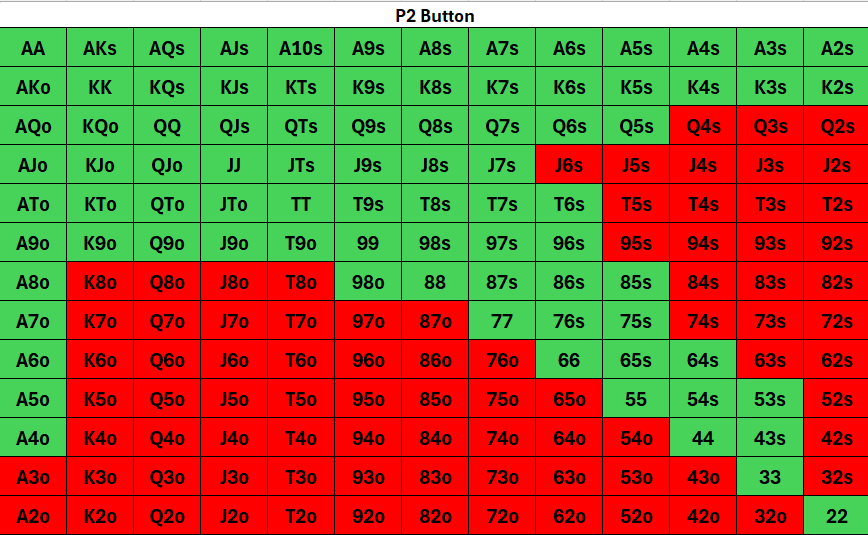
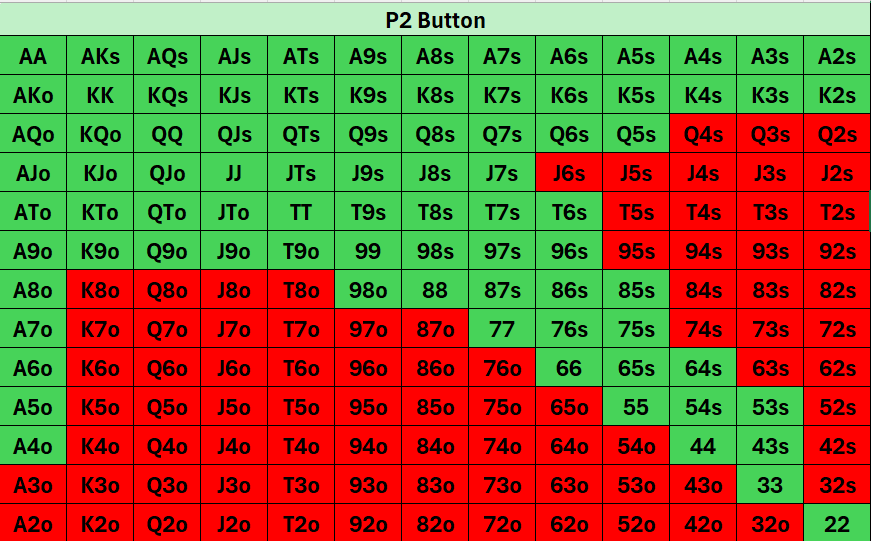
Added the arrays for hands
Added arrays for random hand generator and the arrays for the correct answers which should match the random hand for play to be clicked. Also changed the chart images because I make a mistake with AT (I called it A10)

diff --git a/train.js b/train.js
@@ -1,5 +1,95 @@
 // "Train" page JavaScript //
 
+const allHands = [
+"AA","AKs","AQs","AJs","ATs","A9s","A8s","A7s","A6s","A5s","A4s","A3s","A2s",
+"AKo","KK","KQs","KJs","KTs","K9s","K8s","K7s","K6s","K5s","K4s","K3s","K2s",
+"AQo","KQo","QQ","QJs","QTs","Q9s","Q8s","Q7s","Q6s","Q5s","Q4s","Q3s","Q2s",
+"AJo","KJo","QJo","JJ","JTs","J9s","J8s","J7s","J6s","J5s","J4s","J3s","J2s",
+"ATo","KTo","QTo","JTo","TT","T9s","T8s","T7s","T6s","T5s","T4s","T3s","T2s",
+"A9o","K9o","Q9o","J9o","T9o","99","98s","97s","96s","95s","94s","93s","92s",
+"A8o","K8o","Q8o","J8o","T8o","98o","88","87s","86s","85s","84s","83s","82s",
+"A7o","K7o","Q7o","J7o","T7o","97o","87o","77","76s","75s","74s","73s","72s",
+"A6o","K6o","Q6o","J6o","T6o","96o","86o","76o","66","65s","64s","63s","62s",
+"A5o","K5o","Q5o","J5o","T5o","95o","85o","75o","65o","55","54s","53s","52s",
+"A4o","K4o","Q4o","J4o","T4o","94o","84o","74o","64o","54o","44","43s","42s",
+"A3o","K3o","Q3o","J3o","T3o","93o","83o","73o","63o","53o","43o","33","32s",
+"A2o","K2o","Q2o","J2o","T2o","92o","82o","72o","62o","52o","42o","32o","22"
+];
+
+const p1Hands = [
+"AA","AKs","AQs","AJs","ATs","A9s","A8s","A7s","A6s","A5s","A4s","A3s","A2s",
+"AKo","KK","KQs","KJs","KTs","K9s","K8s","K7s","K6s","K5s","K4s","K3s","K2s",
+"AQo","KQo","QQ","QJs","QTs","Q9s","Q8s","Q7s","Q6s","Q5s","Q4s",
+"AJo","KJo","QJo","JJ","JTs","J9s","J8s","J7s","J6s",
+"ATo","KTo","QTo","JTo","TT","T9s","T8s","T7s","T6s",
+"A9o","K9o","Q9o","J9o","T9o","99","98s","97s","96s","95s",
+"A8o","K8o","Q8o","J8o","T8o","98o","88","87s","86s","85s","84s",
+"A7o","77","76s","75s","74s",
+"A6o","66","65s","64s","63s",
+"A5o","55","54s","53s",
+"A4o","44","43s",
+"A3o","33",
+"A2o","22"
+];  
+
+const p2Hands = [
+"AA","AKs","AQs","AJs","ATs","A9s","A8s","A7s","A6s","A5s","A4s","A3s","A2s",
+"AKo","KK","KQs","KJs","KTs","K9s","K8s","K7s","K6s","K5s","K4s","K3s","K2s",
+"AQo","KQo","QQ","QJs","QTs","Q9s","Q8s","Q7s","Q6s","Q5s",
+"AJo","KJo","QJo","JJ","JTs","J9s","J8s","J7s",
+"ATo","KTo","QTo","JTo","TT","T9s","T8s","T7s","T6s",
+"A9o","K9o","Q9o","J9o","T9o","99","98s","97s","96s",
+"A8o","98o","88","87s","86s","85s",
+"A7o","77","76s","75s",
+"A6o","66","65s","64s",
+"A5o","55","54s","53s",
+"A4o","44","43s",
+"33",
+"22"
+];  
+
+const p3Hands = [
+"AA","AKs","AQs","AJs","ATs","A9s","A8s","A7s","A6s","A5s","A4s","A3s","A2s",
+"AKo","KK","KQs","KJs","KTs","K9s","K8s","K7s","K6s","K5s",
+"AQo","KQo","QQ","QJs","QTs","Q9s","Q8s",
+"AJo","KJo","QJo","JJ","JTs","J9s","J8s",
+"ATo","KTo","QTo","JTo","TT","T9s","T8s",
+"99","98s","97s",
+"88","87s","86s",
+"77","76s","75s",
+"66","65s",
+"55","54s",
+"44","43s",
+"33",
+"22"
+];  
+
+const p4Hands = [
+"AA","AKs","AQs","AJs","ATs","A9s","A8s","A7s","A6s","A5s","A4s","A3s","A2s",
+"AKo","KK","KQs","KJs","KTs","K9s",
+"AQo","KQo","QQ","QJs","QTs","Q9s",
+"AJo","JJ","JTs","J9s",
+"TT","T9s","T8s",
+"99","98s",
+"88","87s",
+"77","76s",
+"66",
+"55",
+]; 
+
+const p5Hands = [
+"AA","AKs","AQs","AJs","ATs","A5s",
+"AKo","KK","KQs","KJs","KTs",
+"AQo","QQ","QJs","QTs",
+"JJ","JTs","J9s",
+"TT","T9s",
+"99","98s",
+"88",
+"77",
+]; 
+
+
+
 // Table section highlight
 const sections = document.querySelectorAll(".table-section");
 
@@ -14,9 +104,22 @@ sections.forEach(section => {
 });
 
 // Button functionality placeholders
+// Next Hand button aka Random Hand Generator //
 const nextHandBtn = document.getElementById("next-hand");
+const cardDisplay = document.getElementById("card-display");
+
+nextHandBtn.addEventListener("click", function() {
+    const randomIndex = Math.floor(Math.random() * allHands.length);
+    const randomHand = allHands[randomIndex];
+    cardDisplay.textContent = randomHand;
+    console.log("Next Hand clicked: " + randomHand);
+});
+
+// Play and Fold buttons //
+
 const playBtn = document.getElementById("play");
 const foldBtn = document.getElementById("fold");
+
 
 nextHandBtn.addEventListener("click", () => {
     console.log("Next Hand clicked");
